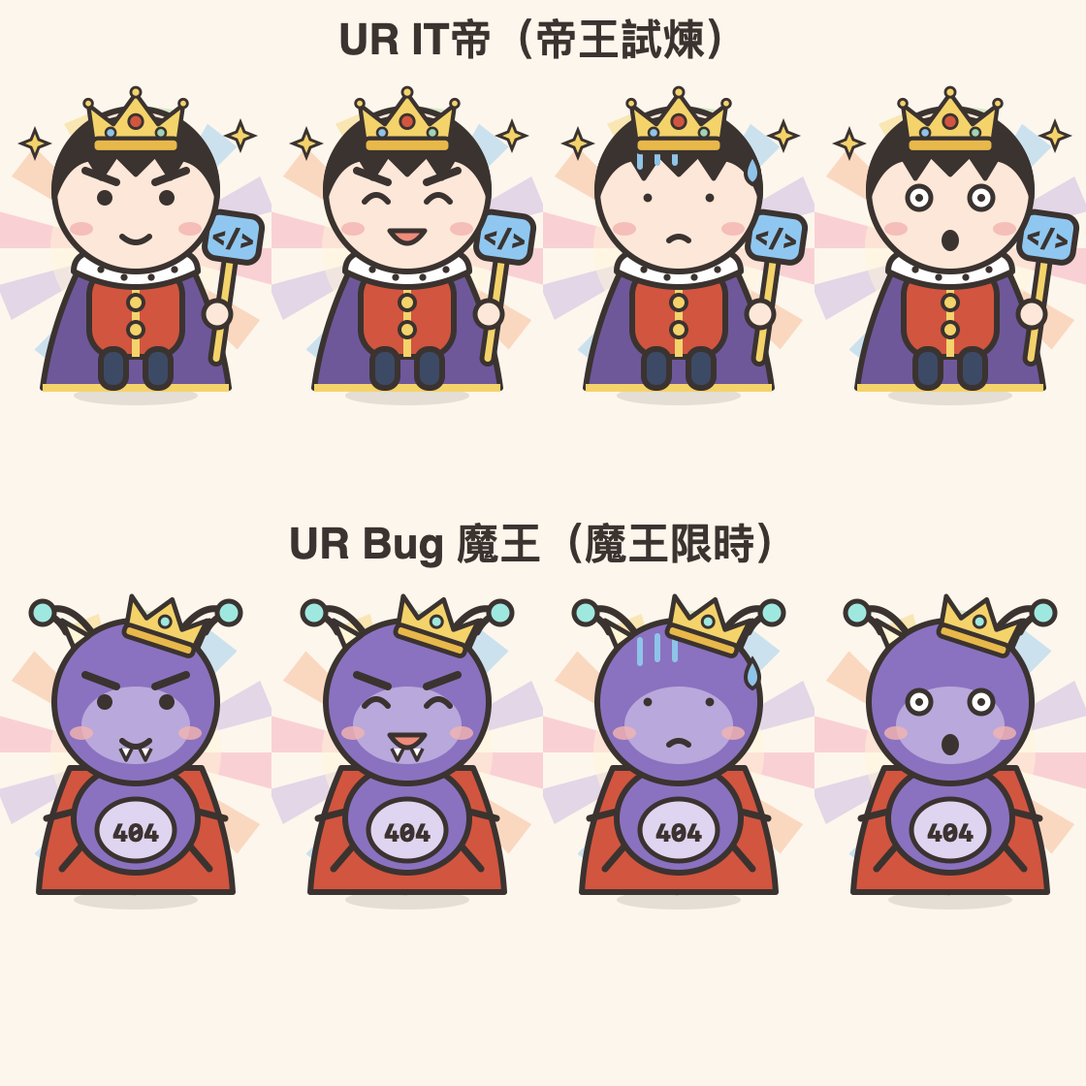
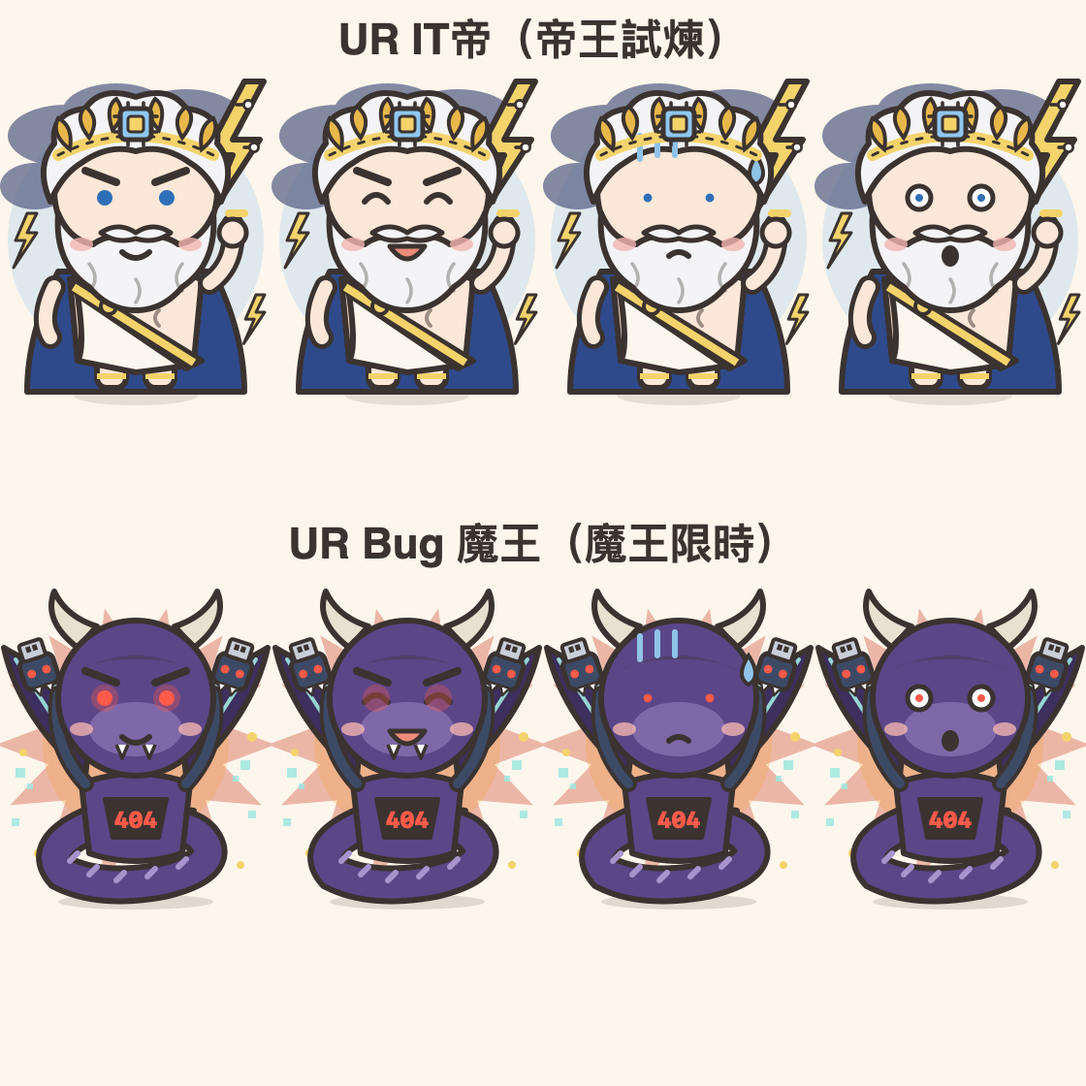
Zeus-style IT帝 and Typhon-style Bug 魔王, team tab with sub-tabs and a filtered character grid

diff --git a/src/ui/characters.js b/src/ui/characters.js
@@ -245,59 +245,83 @@
       </g>`;
     },
 
-    // IT帝 (UR, 帝王試煉 2026-11-01): a young emperor of IT — big jewelled crown,
-    // royal robe with an ermine collar, and a sceptre topped by a glowing </> key.
+    // IT帝 (UR, 帝王試煉; redesigned 2026-11-01 after "不夠威猛"): a Zeus-like
+    // storm king of IT — wavy white hair and beard, a laurel crown of circuit
+    // traces with a CPU-chip gem, a toga with a gold sash, and a raised
+    // lightning bolt carrying circuit nodes.
     emperor: (expr, v) => `
       ${shadow(70)}
-      <path d="M40 100 Q26 130 22 160 L118 160 Q114 130 100 100Z" fill="${v.cape}" stroke="${INK}" stroke-width="3" stroke-linejoin="round"/>
-      <path d="M22 160 L118 160" stroke="${GOLD}" stroke-width="4"/>
-      <rect x="46" y="98" width="48" height="46" rx="14" fill="${v.robe}" stroke="${INK}" stroke-width="3"/>
-      <path d="M70 100 L70 144" stroke="${GOLD}" stroke-width="4"/>
-      <circle cx="70" cy="116" r="4" fill="${GOLD}" stroke="${INK}" stroke-width="2"/><circle cx="70" cy="130" r="4" fill="${GOLD}" stroke="${INK}" stroke-width="2"/>
-      ${legs(NAVY)}
-      <path d="M38 100 Q70 116 102 100 Q102 92 94 90 Q70 102 46 90 Q38 92 38 100Z" fill="#ffffff" stroke="${INK}" stroke-width="3" stroke-linejoin="round"/>
-      <g fill="${INK}"><circle cx="52" cy="99" r="1.8"/><circle cx="64" cy="103" r="1.8"/><circle cx="78" cy="103" r="1.8"/><circle cx="90" cy="99" r="1.8"/></g>
-      <g transform="translate(-5 0) rotate(8 120 120)">
-        <rect x="117" y="92" width="6" height="56" rx="3" fill="${GOLD}" stroke="${INK}" stroke-width="2.5"/>
-        <rect x="106" y="70" width="28" height="24" rx="6" fill="${v.key}" stroke="${INK}" stroke-width="3"/>
-        <text x="120" y="87" text-anchor="middle" font-family="ui-monospace, Menlo, monospace" font-size="12" font-weight="900" fill="${INK}">&lt;/&gt;</text>
+      <path d="M30 100 Q14 132 14 162 L126 162 Q126 132 110 100Z" fill="${v.cape}" stroke="${INK}" stroke-width="3" stroke-linejoin="round"/>
+      <rect x="50" y="140" width="15" height="20" rx="5" fill="${SKIN}" stroke="${INK}" stroke-width="3"/><rect x="75" y="140" width="15" height="20" rx="5" fill="${SKIN}" stroke="${INK}" stroke-width="3"/>
+      <path d="M50 154 h15 M75 154 h15" stroke="${GOLD}" stroke-width="3"/>
+      <path d="M36 104 Q70 92 104 104 L100 146 Q70 152 40 146Z" fill="${SKIN}" stroke="${INK}" stroke-width="3" stroke-linejoin="round"/>
+      <path d="M58 120 q4 4 0 8 M82 120 q-4 4 0 8" fill="none" stroke="${INK}" stroke-width="2" stroke-linecap="round" opacity="0.5"/>
+      <path d="M36 104 L104 146 L96 150 L40 112Z M40 112 Q44 140 40 146 L70 152 Q88 150 98 148Z" fill="${v.toga}" stroke="${INK}" stroke-width="3" stroke-linejoin="round"/>
+      <path d="M38 108 L100 147" stroke="${GOLD}" stroke-width="4"/>
+      <circle cx="56" cy="118" r="4" fill="${GOLD}" stroke="${INK}" stroke-width="2"/>
+      <path d="M28 108 Q20 124 26 134" fill="none" stroke="${INK}" stroke-width="12" stroke-linecap="round"/><path d="M28 108 Q20 124 26 134" fill="none" stroke="${SKIN}" stroke-width="7" stroke-linecap="round"/>
+      <path d="M108 106 Q122 96 120 76" fill="none" stroke="${INK}" stroke-width="12" stroke-linecap="round"/><path d="M108 106 Q122 96 120 76" fill="none" stroke="${SKIN}" stroke-width="7" stroke-linecap="round"/>
+      <path d="M118 70 h8" stroke="${GOLD}" stroke-width="4" stroke-linecap="round"/>
+      <g class="ur-bolt">
+        <path d="M126 2 L106 40 L120 40 L104 78 L134 32 L120 32 L136 2Z" fill="${v.bolt}" stroke="${INK}" stroke-width="3" stroke-linejoin="round"/>
+        <path d="M122 14 h6 M114 36 h-6 M126 36 h5" stroke="${INK}" stroke-width="1.8" stroke-linecap="round"/>
+        <circle cx="128" cy="14" r="2.3" fill="#fff" stroke="${INK}" stroke-width="1.4"/><circle cx="108" cy="36" r="2.3" fill="#fff" stroke="${INK}" stroke-width="1.4"/><circle cx="131" cy="36" r="2.3" fill="#fff" stroke="${INK}" stroke-width="1.4"/>
       </g>
-      <circle cx="112" cy="122" r="7" fill="${SKIN}" stroke="${INK}" stroke-width="2.5"/>
+      <circle cx="120" cy="80" r="7" fill="${SKIN}" stroke="${INK}" stroke-width="2.5"/>
       ${humanHead(58)}
-      <path d="M28 62 Q26 24 70 20 Q114 24 112 62 Q106 44 94 42 L88 52 L80 40 L70 50 L60 40 L52 52 L46 42 Q34 44 28 62Z" fill="${v.hair}" stroke="${INK}" stroke-width="2.5" stroke-linejoin="round"/>
-      ${face(expr, { ...std, sx: 108, sy: 40, gy: 34 })}
-      <g transform="translate(70 27) scale(0.72)">
-        <path d="M-30 10 L-34 -18 L-16 -4 L0 -26 L16 -4 L34 -18 L30 10Z" fill="${GOLD}" stroke="${INK}" stroke-width="3" stroke-linejoin="round"/>
-        <rect x="-31" y="6" width="62" height="10" rx="4" fill="#e8b84a" stroke="${INK}" stroke-width="3"/>
-        <circle cx="0" cy="-6" r="5" fill="#d2553f" stroke="${INK}" stroke-width="2"/>
-        <circle cx="-18" cy="2" r="3.5" fill="#8fc3e8" stroke="${INK}" stroke-width="1.8"/><circle cx="18" cy="2" r="3.5" fill="#9fd4b4" stroke="${INK}" stroke-width="1.8"/>
-        <circle cx="0" cy="-27" r="3.5" fill="${GOLD}" stroke="${INK}" stroke-width="2"/><circle cx="-34" cy="-19" r="3" fill="${GOLD}" stroke="${INK}" stroke-width="2"/><circle cx="34" cy="-19" r="3" fill="${GOLD}" stroke="${INK}" stroke-width="2"/>
-      </g>
-      ${sparkle(18, 34)}${sparkle(124, 30)}`,
-
-    // Bug 魔王 (UR, 魔王限時 2026-11-01): the bug king, now on your side — a round
-    // bug with curly glowing antennae, little horns, tilted crown, cape and a
-    // 404 emblem.
-    demon: (expr, v) => `
-      ${shadow(70)}
-      <path d="M36 96 Q22 128 20 160 L120 160 Q118 128 104 96Z" fill="${v.cape}" stroke="${INK}" stroke-width="3" stroke-linejoin="round"/>
-      <g stroke="${INK}" stroke-width="3.5" stroke-linecap="round"><path d="M44 134 l-12 14"/><path d="M96 134 l12 14"/><path d="M40 118 l-16 4"/><path d="M100 118 l16 4"/></g>
-      <ellipse cx="70" cy="122" rx="32" ry="28" fill="${v.body}" stroke="${INK}" stroke-width="3"/>
-      <ellipse cx="70" cy="128" rx="20" ry="16" fill="${v.belly}" stroke="${INK}" stroke-width="2.5"/>
-      <text x="70" y="134" text-anchor="middle" font-family="ui-monospace, Menlo, monospace" font-size="13" font-weight="900" fill="${INK}">404</text>
-      <path d="M50 30 Q36 8 22 16 Q30 18 34 26" fill="none" stroke="${INK}" stroke-width="3.5" stroke-linecap="round"/>
-      <path d="M90 30 Q104 8 118 16 Q110 18 106 26" fill="none" stroke="${INK}" stroke-width="3.5" stroke-linecap="round"/>
-      <circle cx="22" cy="16" r="6" fill="${v.glow}" stroke="${INK}" stroke-width="2.5"/><circle cx="118" cy="16" r="6" fill="${v.glow}" stroke="${INK}" stroke-width="2.5"/>
-      <circle cx="70" cy="62" r="42" fill="${v.body}" stroke="${INK}" stroke-width="3"/>
-      <path d="M38 34 L32 20 L46 28Z M102 34 L108 20 L94 28Z" fill="#fff6d8" stroke="${INK}" stroke-width="2.5" stroke-linejoin="round"/>
-      <ellipse cx="70" cy="74" rx="28" ry="20" fill="${v.belly}" opacity="0.55"/>
-      ${face(expr, { lx: 54, rx: 86, ey: 62, mx: 70, my: 82, sx: 108, sy: 40, gx: 50, gy: 30, eye: v.eye })}
-      ${expr === "idle" || expr === "happy" ? `<path d="M62 86 l3 6 l3 -6 M72 86 l3 6 l3 -6" fill="#fff" stroke="${INK}" stroke-width="1.8" stroke-linejoin="round"/>` : ""}
-      <g transform="translate(84 24) rotate(18) scale(0.6)">
-        <path d="M-30 10 L-34 -18 L-16 -4 L0 -26 L16 -4 L34 -18 L30 10Z" fill="${GOLD}" stroke="${INK}" stroke-width="4" stroke-linejoin="round"/>
-        <rect x="-31" y="6" width="62" height="10" rx="4" fill="#e8b84a" stroke="${INK}" stroke-width="4"/>
-        <circle cx="0" cy="-6" r="5" fill="${v.glow}" stroke="${INK}" stroke-width="2.5"/>
+      <path d="M26 64 Q18 46 28 34 Q26 18 44 16 Q52 4 70 10 Q88 4 96 16 Q114 18 112 34 Q122 46 114 64 Q108 50 98 44 Q84 34 70 38 Q56 34 42 44 Q32 50 26 64Z" fill="${v.hair}" stroke="${INK}" stroke-width="3" stroke-linejoin="round"/>
+      <path d="M30 70 Q28 96 46 108 Q56 120 70 120 Q84 120 94 108 Q112 96 110 70 Q104 84 92 86 Q84 80 70 82 Q56 80 48 86 Q36 84 30 70Z" fill="${v.hair}" stroke="${INK}" stroke-width="3" stroke-linejoin="round"/>
+      <path d="M46 96 q6 8 0 14 M70 104 q4 6 0 12 M94 96 q-6 8 0 14" fill="none" stroke="${INK}" stroke-width="1.8" stroke-linecap="round" opacity="0.35"/>
+      <path d="M52 80 Q61 74 70 80 Q79 74 88 80 Q80 86 70 83 Q60 86 52 80Z" fill="${v.hair}" stroke="${INK}" stroke-width="2.5" stroke-linejoin="round"/>
+      ${face(expr, { lx: 54, rx: 86, ey: 62, mx: 70, my: 90, sx: 110, sy: 40, gx: 50, gy: 30, eye: v.eye })}
+      <g>
+        <path d="M30 40 Q70 20 110 40" fill="none" stroke="${GOLD}" stroke-width="6" stroke-linecap="round"/>
+        <path d="M30 40 Q70 20 110 40" fill="none" stroke="${INK}" stroke-width="1.5" stroke-dasharray="3 5" stroke-linecap="round"/>
+        <g fill="${v.laurel}" stroke="${INK}" stroke-width="2">
+          <path d="M36 37 q-10 -8 -6 -16 q8 4 6 16Z"/><path d="M46 31 q-8 -10 -2 -16 q8 6 2 16Z"/><path d="M58 27 q-4 -12 2 -16 q6 8 -2 16Z"/>
+          <path d="M104 37 q10 -8 6 -16 q-8 4 -6 16Z"/><path d="M94 31 q8 -10 2 -16 q-8 6 -2 16Z"/><path d="M82 27 q4 -12 -2 -16 q-6 8 2 16Z"/>
+        </g>
+        <rect x="62" y="16" width="16" height="16" rx="3" fill="#8fc7f0" stroke="${INK}" stroke-width="2.5"/>
+        <rect x="66" y="20" width="8" height="8" rx="1.5" fill="${GOLD}" stroke="${INK}" stroke-width="1.5"/>
+        <path d="M66 16 v-3 M74 16 v-3 M66 32 v3 M74 32 v3 M62 20 h-3 M62 28 h-3 M78 20 h3 M78 28 h3" stroke="${INK}" stroke-width="1.8" stroke-linecap="round"/>
       </g>`,
+
+    // Bug 魔王 (UR, 魔王限時; redesigned 2026-11-01 after "不夠震懾"): a Typhon-
+    // like monster of bugs — horned head with glowing red eyes, bat wings veined
+    // with circuits, a serpent coil instead of legs, two cable serpents with
+    // USB-plug heads rising from the shoulders, and a glowing 404 chest plate.
+    demon: (expr, v) => `
+      <g fill="${v.wing}" stroke="${INK}" stroke-width="3" stroke-linejoin="round">
+        <path d="M44 100 Q10 70 2 34 Q18 44 24 40 Q22 56 34 58 Q30 72 46 82Z"/>
+        <path d="M96 100 Q130 70 138 34 Q122 44 116 40 Q118 56 106 58 Q110 72 94 82Z"/>
+      </g>
+      <path d="M8 40 L30 74 M22 46 L36 64 M132 40 L110 74 M118 46 L104 64" stroke="${v.glow}" stroke-width="2" stroke-linecap="round" opacity="0.9"/>
+      <circle cx="30" cy="74" r="2.5" fill="${v.glow}"/><circle cx="110" cy="74" r="2.5" fill="${v.glow}"/>
+      <ellipse cx="70" cy="165" rx="40" ry="4" fill="${INK}" opacity="0.15"/>
+      <path d="M50 124 Q20 136 32 150 Q52 160 84 154 Q116 146 104 132 Q96 124 84 128" fill="none" stroke="${INK}" stroke-width="20" stroke-linecap="round"/>
+      <path d="M50 124 Q20 136 32 150 Q52 160 84 154 Q116 146 104 132 Q96 124 84 128" fill="none" stroke="${v.body}" stroke-width="14" stroke-linecap="round"/>
+      <path d="M36 144 l4 -4 M46 151 l4 -4 M60 154 l4 -4 M76 152 l4 -4 M92 147 l4 -4" stroke="${v.belly}" stroke-width="3" stroke-linecap="round"/>
+      <path d="M84 128 Q90 116 100 118" fill="none" stroke="${INK}" stroke-width="3" stroke-linecap="round"/>
+      <path d="M42 104 Q70 94 98 104 L94 140 Q70 148 46 140Z" fill="${v.body}" stroke="${INK}" stroke-width="3" stroke-linejoin="round"/>
+      <path d="M54 112 h32 l-4 20 h-24Z" fill="${INK}" stroke="${INK}" stroke-width="2" stroke-linejoin="round"/>
+      <text x="70" y="127" text-anchor="middle" font-family="ui-monospace, Menlo, monospace" font-size="12" font-weight="900" fill="${v.eyeGlow}">404</text>
+      ${[["M44 104 Q26 84 30 58", 22, 52, -1], ["M96 104 Q114 84 110 58", 118, 52, 1]].map(([d, hx, hy, dir]) => `
+        <path d="${d}" fill="none" stroke="${INK}" stroke-width="9" stroke-linecap="round"/><path d="${d}" fill="none" stroke="${v.cable}" stroke-width="5" stroke-linecap="round"/>
+        <g transform="translate(${hx} ${hy}) rotate(${dir * 18})">
+          <rect x="-9" y="-14" width="18" height="16" rx="4" fill="${v.cable}" stroke="${INK}" stroke-width="2.5"/>
+          <rect x="-6" y="-22" width="12" height="9" rx="1.5" fill="#c9ced8" stroke="${INK}" stroke-width="2"/>
+          <rect x="-3" y="-20" width="2.5" height="3" fill="${INK}"/><rect x="0.5" y="-20" width="2.5" height="3" fill="${INK}"/>
+          <circle cx="-4" cy="-6" r="2.2" fill="${v.eyeGlow}"/><circle cx="4" cy="-6" r="2.2" fill="${v.eyeGlow}"/>
+          <path d="M-5 2 l2 4 l2 -4 M1 2 l2 4 l2 -4" fill="#fff" stroke="${INK}" stroke-width="1.2" stroke-linejoin="round"/>
+        </g>`).join("")}
+      <path d="M40 34 Q22 20 28 5 Q34 18 50 23Z" fill="${v.horn}" stroke="${INK}" stroke-width="3" stroke-linejoin="round"/>
+      <path d="M100 34 Q118 20 112 5 Q106 18 90 23Z" fill="${v.horn}" stroke="${INK}" stroke-width="3" stroke-linejoin="round"/>
+      <circle cx="70" cy="60" r="40" fill="${v.body}" stroke="${INK}" stroke-width="3"/>
+      <path d="M40 46 Q70 30 100 46 Q92 40 70 40 Q48 40 40 46Z" fill="${INK}" opacity="0.35"/>
+      <ellipse cx="70" cy="76" rx="24" ry="14" fill="${v.belly}" opacity="0.45"/>
+      ${face(expr, { lx: 54, rx: 86, ey: 60, mx: 70, my: 80, sx: 106, sy: 38, gx: 50, gy: 28, eye: v.eyeGlow })}
+      ${expr === "idle" || expr === "happy" ? `<circle cx="54" cy="60" r="7" fill="${v.eyeGlow}" opacity="0.3"/><circle cx="86" cy="60" r="7" fill="${v.eyeGlow}" opacity="0.3"/><path d="M60 84 l3 7 l3 -7 M74 84 l3 7 l3 -7" fill="#fff" stroke="${INK}" stroke-width="1.8" stroke-linejoin="round"/>` : ""}
+      <g fill="${v.glow}" opacity="0.85"><rect x="8" y="96" width="5" height="5"/><rect x="14" y="104" width="3" height="3"/><rect x="124" y="92" width="5" height="5"/><rect x="120" y="100" width="3" height="3"/><rect x="6" y="122" width="4" height="4"/><rect x="128" y="118" width="4" height="4"/></g>`,
 
     // 人工智能機械人: body/head colours, eye colour, extras.
     robot: (expr, v) => {
@@ -333,7 +357,7 @@
   // ---------- SSR look (user request 2026-10-31: SSR 要有威猛的形象) ----------
   // An energy burst behind, an optional cape, and determined eyebrows.
   // Brow positions per family: [left eye x, right eye x, brow y].
-  const BROWS = { dog: [50, 82, 47], db: [54, 86, 50], suit: [54, 86, 50], office: [54, 86, 50], net: [54, 86, 54], hacker: [53, 87, 50], robot: [56, 84, 40], emperor: [54, 86, 52], demon: [54, 86, 52] };
+  const BROWS = { dog: [50, 82, 47], db: [54, 86, 50], suit: [54, 86, 50], office: [54, 86, 50], net: [54, 86, 54], hacker: [53, 87, 50], robot: [56, 84, 40], emperor: [54, 86, 52], demon: [54, 86, 50] };
 
   function burst(color) {
     const pts = [];
@@ -358,6 +382,29 @@
     return `<g class="ssr-aura ur-aura">${rays}<circle cx="70" cy="88" r="44" fill="#fff6d8" opacity="0.5"/></g>`;
   }
 
+  // UR auras (2026-11-01): a storm (dark clouds, lightning, binary digits)
+  // behind IT帝 and an inferno (red-orange spikes, embers) behind Bug 魔王.
+  function stormAura() {
+    const bolt = (x, y, s) => `<path d="M${x} ${y} l${-6 * s} ${14 * s} h${5 * s} l${-6 * s} ${14 * s} l${12 * s} ${-18 * s} h${-5 * s} l${5 * s} ${-10 * s}Z" fill="#f4d36b" stroke="${INK}" stroke-width="1.5" stroke-linejoin="round"/>`;
+    return `<g class="ssr-aura ur-aura">
+      <circle cx="70" cy="84" r="66" fill="#8fc7f0" opacity="0.28"/>
+      <g fill="#5b6488" opacity="0.75"><ellipse cx="34" cy="30" rx="30" ry="16"/><ellipse cx="60" cy="18" rx="28" ry="15"/><ellipse cx="96" cy="22" rx="30" ry="16"/><ellipse cx="18" cy="56" rx="18" ry="12"/></g>
+      ${bolt(14, 70, 1)}${bolt(28, 120, 0.8)}${bolt(132, 112, 0.9)}
+      <g font-family="ui-monospace, Menlo, monospace" font-size="8" font-weight="900" fill="#c9e2f4"><text x="30" y="34">1010</text><text x="78" y="26">0110</text></g>
+    </g>`;
+  }
+
+  function infernoAura() {
+    const pts = [];
+    for (let i = 0; i < 28; i++) {
+      const a = (Math.PI * 2 * i) / 28;
+      const r = i % 2 ? 46 : 72;
+      pts.push(`${(70 + r * Math.cos(a)).toFixed(1)},${(84 + r * Math.sin(a)).toFixed(1)}`);
+    }
+    return `<g class="ssr-aura ur-aura"><polygon points="${pts.join(" ")}" fill="#d2553f" opacity="0.4"/><circle cx="70" cy="84" r="48" fill="#f2a541" opacity="0.3"/>
+      <g fill="#f4d36b"><circle cx="20" cy="140" r="2.5"/><circle cx="124" cy="146" r="2"/><circle cx="12" cy="88" r="2"/><circle cx="130" cy="80" r="2.5"/></g></g>`;
+  }
+
   function heroic(family, expr, v) {
     if (!v.heroic) return { back: "", front: "" };
     const h = v.heroic;
@@ -369,7 +416,7 @@
     const brows = expr === "idle" || expr === "happy"
       ? `<g stroke="${browColor}" stroke-width="4" stroke-linecap="round"><line x1="${lx - 10}" y1="${y - 4}" x2="${lx + 6}" y2="${y + 2}"/><line x1="${rx + 10}" y1="${y - 4}" x2="${rx - 6}" y2="${y + 2}"/></g>`
       : "";
-    const aura = h.aura === "rainbow" ? rainbowBurst() : burst(h.aura);
+    const aura = h.aura === "rainbow" ? rainbowBurst() : h.aura === "storm" ? stormAura() : h.aura === "inferno" ? infernoAura() : burst(h.aura);
     return { back: aura + cape, front: brows };
   }
 
@@ -411,9 +458,9 @@
     "CH-BROADBAND-5G": ["net", { helmet: "#c4b0e0", vest: "#f2b4b0", shirt: "#e6eff8", cable: "#c4b0e0", badge: "fiveG" }],
     "CH-BROADBAND-CHIEF": ["net", { helmet: GOLD, vest: "#ee8b7a", shirt: NAVY, cable: GOLD, badge: "mic", heroic: { aura: "#f4d36b", cape: NAVY } }],
     // 帝王系列 (UR, only from 帝王試煉 shards)
-    "CH-ITEMPEROR": ["emperor", { robe: "#d2553f", cape: "#6e589a", hair: "#3b3330", key: "#8fc7f0", heroic: { aura: "rainbow" } }],
+    "CH-ITEMPEROR": ["emperor", { toga: "#fbf7ee", cape: "#2f4a8a", hair: "#f4f4f6", laurel: "#e8b84a", bolt: "#f4d36b", eye: "#2f6fb8", heroic: { aura: "storm" } }],
     // 魔王系列 (UR, only from 魔王限時 shards)
-    "CH-BUGLORD": ["demon", { body: "#8a72c0", belly: "#e0d5f0", cape: "#d2553f", glow: "#9fe8e0", eye: "#3b3330", heroic: { aura: "rainbow" } }],
+    "CH-BUGLORD": ["demon", { body: "#5b4688", belly: "#a993cf", wing: "#3d2f5e", horn: "#e8e0d0", cable: "#3d4a66", glow: "#9fe8e0", eyeGlow: "#ff5a4a", heroic: { aura: "inferno" } }],
     // 人工智能機械人
     "CH-AIBOT-STUDY": ["robot", { head: "#ffffff", body: "#9fd4b4", screen: NAVY, eye: "#9fd4b4", antenna: GOLD }],
     "CH-AIBOT-CHAT": ["robot", { head: "#e6eff8", body: "#8fc3e8", screen: NAVY, eye: "#8fc3e8", antenna: "#ee8b7a", extra: "bubble" }],

diff --git a/src/ui/team.js b/src/ui/team.js
@@ -1,4 +1,4 @@
-// 角色隊伍 screen: team slots (opened by player level) and the character list.
+// 角色隊伍 screen: team slots (opened by player level), then 角色 / 裝備 sub-tabs.
 // Tap a character to add or remove it. Team effects apply to the DSE 題庫挑戰
 // only (see src/core/profile.js). Ownership rules wait for the gacha feature,
 // so every character is available for now (PROTOTYPE).
@@ -19,6 +19,10 @@
   function topicName(id) {
     return id === "ALL" ? "全部課題" : Q.TOPICS[id] || id;
   }
+
+  // Sub-tab ("chars" | "gear") and character filter, kept while on this screen.
+  let view = "chars";
+  let filter = "owned";
 
   function show(message) {
     const save = app.getSave();
@@ -56,10 +60,12 @@
           h("h1", {}, "角色隊伍")
         ),
         app.profileBar(),
+        // Compact team strip; below it 角色 / 裝備 sub-tabs, so the page no
+        // longer scrolls through every section (user 2026-11-01).
         h(
           "section",
-          { class: "panel" },
-          h("h2", {}, `我的隊伍（${team.length} / ${slots}）`),
+          { class: "panel team-strip" },
+          h("h2", {}, `我的隊伍 ${team.length} / ${slots}`, h("span", { class: "team-stats" }, `攻擊 ${stats.attack}｜HP ${stats.hp}`)),
           h(
             "div",
             { class: "team-slots" },
@@ -82,68 +88,66 @@
               );
             })
           ),
-          h("p", { class: "hint" }, `隊伍攻擊 ${stats.attack}｜HP ${stats.hp}（成員平均）`),
-          h("p", { class: "hint" }, "答對隊員專長課題的題目可加傷害。隊伍課題越多元，越多題目有加成。"),
-          h("p", { class: "hint" }, "隊伍只用於「DSE 題庫挑戰」；故事模式及校際公會不受影響。")
+          h("p", { class: "hint" }, "按角色加入或移出。答對隊員專長課題可加傷害；只用於「DSE 題庫挑戰」。")
         ),
         message ? h("p", { class: "form-error", role: "alert" }, message) : null,
-        equipmentPanel(profile, team, equip),
         h(
-          "section",
-          { class: "panel" },
-          h("h2", {}, "角色"),
-          P.familyGroups(data.characters).map((g) => [
-            g.characters.length > 1 || g.characters[0].family
-              ? h("h3", { class: "family-title" }, g.name, h("span", { class: "family-count" }, `${g.characters.filter((c) => P.owns(profile, c.id)).length} / ${g.characters.length}`))
-              : null,
-            h(
+          "div",
+          { class: "seg team-tabs", role: "tablist" },
+          [["chars", `角色 ${profile.owned.characters.length}/${data.characters.length}`], ["gear", "裝備"]].map(([key, label]) =>
+            h("button", { class: view === key ? "seg-btn active" : "seg-btn", role: "tab", "aria-selected": view === key ? "true" : "false", onclick: () => ((view = key), app.sfx("tap"), show()) }, label)
+          )
+        ),
+        view === "gear" ? equipmentPanel(profile, team, equip) : charactersPanel(profile, toggle, slots, covered)
+      )
+    );
+  }
+
+  // 角色 grid: filter chips (已擁有 / 全部 / each family), three cards per row.
+  function charactersPanel(profile, toggle, slots, covered) {
+    const groups = P.familyGroups(data.characters);
+    const filters = [["owned", "已擁有"], ["all", "全部"]].concat(groups.map((g) => [g.id, g.name]));
+    const list = data.characters.filter((c) =>
+      filter === "owned" ? P.owns(profile, c.id) : filter === "all" ? true : (groups.find((g) => g.id === filter) || { characters: [] }).characters.includes(c)
+    );
+    const rank = { UR: 0, SSR: 1, SR: 2, R: 3 };
+    list.sort((a, b) => (profile.team.includes(b.id) - profile.team.includes(a.id)) || (P.owns(profile, b.id) - P.owns(profile, a.id)) || (rank[a.rarity] - rank[b.rarity]));
+    return h(
+      "section",
+      { class: "panel" },
+      h(
+        "div",
+        { class: "filter-chips", role: "tablist", "aria-label": "篩選角色" },
+        filters.map(([key, label]) => h("button", { class: filter === key ? "chip-btn active" : "chip-btn", role: "tab", "aria-selected": filter === key ? "true" : "false", onclick: () => ((filter = key), show()) }, label))
+      ),
+      list.length
+        ? h(
             "div",
-            { class: "char-list" },
-            g.characters.map((c) => {
+            { class: "char-grid" },
+            list.map((c) => {
+              const owned = P.owns(profile, c.id);
               const inTeam = profile.team.includes(c.id);
-              if (!P.owns(profile, c.id)) {
-                return h(
-                  "button",
-                  { class: "char-card not-owned", onclick: () => show(ERRORS.not_owned), "aria-label": `${c.name}（未擁有）` },
-                  h("span", { class: "char-sprite", html: sprites.character(c.id, "idle") }),
-                  h(
-                    "span",
-                    { class: "char-info" },
-                    h("span", { class: "char-name" }, c.name, h("span", { class: `rarity rarity-${c.rarity}` }, c.rarity)),
-                    h("span", { class: "char-spec" }, `專長：${topicName(c.specialty)}`),
-                    h("span", { class: "char-action" }, "未擁有（抽蛋取得）")
-                  )
-                );
-              }
+              const g = root.ITE.growth.charGrowth(profile, c.id);
+              const label = !owned ? "未擁有" : inTeam ? (slots === 1 ? "出戰中" : "隊伍中") : covered.has(c.specialty) ? "專長重複" : `Lv ${g.level}${g.evo ? `・${root.ITE.growth.EVO_NAMES[g.evo]}` : ""}`;
               return h(
                 "button",
-                { class: inTeam ? "char-card in-team" : "char-card", onclick: () => toggle(c.id), "aria-pressed": inTeam ? "true" : "false" },
-                h("span", { class: "char-sprite", html: sprites.character(c.id, inTeam ? "happy" : "idle") }),
-                h(
-                  "span",
-                  { class: "char-info" },
-                  h("span", { class: "char-name" }, c.name, h("span", { class: `rarity rarity-${c.rarity}` }, c.rarity)),
-                  h("span", { class: "char-spec" }, `專長：${topicName(c.specialty)}　+${Math.round(c.bonus * 100)}%`),
-                  (() => {
-                    const g = root.ITE.growth.charGrowth(profile, c.id);
-                    const st = root.ITE.growth.stats(c, g);
-                    return h("span", { class: "char-stats" }, `Lv ${g.level}${g.evo ? `・${root.ITE.growth.EVO_NAMES[g.evo]}` : ""}｜攻擊 ${st.attack}｜HP ${st.hp}`);
-                  })(),
-                  h(
-                    "span",
-                    { class: "char-action" },
-                    inTeam
-                      ? slots === 1 ? "目前出戰" : "已在隊伍（按一下移出）"
-                      : slots === 1 ? "按一下換上" : covered.has(c.specialty) ? "加入隊伍（專長重複）" : "加入隊伍"
-                  )
-                )
+                {
+                  class: `char-tile${inTeam ? " in-team" : ""}${owned ? "" : " not-owned"}`,
+                  onclick: () => (owned ? toggle(c.id) : show(ERRORS.not_owned)),
+                  "aria-pressed": inTeam ? "true" : "false",
+                  "aria-label": `${c.name} ${c.rarity}，專長 ${topicName(c.specialty)}，${label}`,
+                },
+                inTeam ? h("span", { class: "tile-check", "aria-hidden": "true" }, "✓") : null,
+                h("span", { class: `rarity rarity-${c.rarity} tile-rarity` }, c.rarity),
+                h("span", { class: "tile-sprite", html: sprites.character(c.id, inTeam ? "happy" : "idle") }),
+                h("span", { class: "tile-name" }, c.name),
+                h("span", { class: "tile-spec" }, topicName(c.specialty)),
+                h("span", { class: "tile-state" }, label)
               );
             })
-          ),
-          ]).flat(),
-          h("p", { class: "hint" }, `已擁有 ${profile.owned.characters.length} / ${data.characters.length} 個角色。新角色只可在「抽蛋」取得。`)
-        )
-      )
+          )
+        : h("p", { class: "hint" }, "沒有角色。"),
+      h("p", { class: "hint" }, "新角色只可在「抽蛋」取得；UR 角色由帝王試煉／魔王限時的碎片合成。")
     );
   }
 
@@ -226,5 +230,5 @@
     );
   }
 
-  root.ITE.teamUi = { show: () => ((picking = null), show()) };
+  root.ITE.teamUi = { show: () => ((picking = null), (view = "chars"), show()) };
 })(globalThis);

diff --git a/src/ui/style.css b/src/ui/style.css
@@ -859,3 +859,27 @@ body[data-screen="guild"] { --page-bg: linear-gradient(180deg, #ebe2f8 0%, #fbf6
 .drain-info.grace { color: var(--ink); background: #c9e2f4; animation: none; }
 .demon-entry { background: linear-gradient(100deg, #f6c6c0, #e0d5f0); }
 @media (prefers-reduced-motion: reduce) { .drain-info { animation: none; } }
+/* 角色隊伍 sub-tabs and grid (2026-11-01) */
+.team-strip h2 { display: flex; justify-content: space-between; align-items: baseline; gap: 8px; margin-bottom: 6px; }
+.team-stats { font-size: 13px; font-weight: 800; color: var(--muted); }
+.team-tabs { margin: 10px 0; }
+.filter-chips { display: flex; gap: 6px; overflow-x: auto; padding: 2px 2px 8px; margin: -4px 0 6px; scrollbar-width: none; }
+.filter-chips::-webkit-scrollbar { display: none; }
+.chip-btn { flex: none; padding: 5px 12px; font: inherit; font-size: 13px; font-weight: 800; color: var(--ink); background: #fff; border: 2px solid var(--ink); border-radius: 999px; cursor: pointer; white-space: nowrap; }
+.chip-btn.active { background: var(--yellow); }
+.char-grid { display: grid; grid-template-columns: repeat(3, minmax(0, 1fr)); gap: 8px; }
+.char-tile {
+  position: relative; display: flex; flex-direction: column; align-items: center; gap: 1px; padding: 6px 4px 8px; min-width: 0;
+  font: inherit; color: var(--ink); background: var(--card); border: 2.5px solid var(--ink); border-radius: 16px; box-shadow: 0 3px 0 var(--ink); cursor: pointer;
+}
+.char-tile.in-team { background: #fff1c9; }
+.char-tile.not-owned { background: #f1ebe3; border-style: dashed; box-shadow: none; }
+.char-tile.not-owned .tile-sprite { filter: grayscale(1); opacity: 0.5; }
+.char-tile:focus-visible { outline: 3px solid #6aa0d8; outline-offset: 2px; }
+.tile-sprite { width: 70%; }
+.tile-sprite svg { width: 100%; height: auto; display: block; }
+.tile-name { max-width: 100%; font-size: 13px; font-weight: 900; overflow: hidden; text-overflow: ellipsis; white-space: nowrap; }
+.tile-spec { max-width: 100%; font-size: 10.5px; color: var(--muted); overflow: hidden; text-overflow: ellipsis; white-space: nowrap; }
+.tile-state { font-size: 11px; font-weight: 800; }
+.tile-rarity { position: absolute; top: 5px; left: 5px; font-size: 10px; }
+.tile-check { position: absolute; top: 4px; right: 6px; width: 20px; height: 20px; display: grid; place-items: center; font-size: 12px; font-weight: 900; background: #9fd4b4; border: 2px solid var(--ink); border-radius: 50%; }

diff --git a/docs/05_DECISIONS.md b/docs/05_DECISIONS.md
@@ -70,3 +70,5 @@
 | 裝備數值 | CONFIRMED 2026-11-01（1.0 範圍含 #12） | Excel `Equipment` 表：眼藥水 回復 20／28／36 HP（原 10／16／22），防毒軟件 受傷害 -15／-22／-30%（原 10／15／20）。Claude 直接改 Excel（只改 sheet23.xml，備份 `IT_Emperor_DseMcQs_舊(20261101_裝備前）.xlsx`）並重新匯入 |
 | 帝王試煉（UR 副本） | PROTOTYPE 2026-11-01（用戶規格） | UR「IT帝」（Excel Characters 新增 CH-ITEMPEROR：全部課題、攻擊／HP 120、加成 15%、帝王系列；匯入器接受 UR，抽蛋池不含 UR）。DSE 挑戰頁「👑 帝王試煉」：初級 5 題 1 碎片、中級 15 題 1–3、高級 30 題 2–4、最難 50 題 3–5；每難度每週（香港時間星期一 00:00）領一次，輸了不計可再挑戰，不扣體力；40 碎片合成，其餘留作進化。Boss 為「IT帝的影子」（UR 造型變暗）。造型：皇冠、紅袍紫披風、白毛領、</> 權杖、彩虹光芒——PROPOSAL 待用戶核准 |
 | 魔王限時（第二個 UR） | PROTOTYPE 2026-11-01（用戶規格） | DSE 挑戰頁「⏱ 魔王限時」：簡單 15／中等 20／困難 25／究極 30 題，答題時每秒扣隊伍最大 HP 的 0.7／0.8／0.9／1%，看解說時暫停（學習優先），App 在背景時不扣；HP 0 即失敗。眼鏡生效：每題開頭 3／5／7 秒不扣血（眼鏡加入裝備盲盒）。勝出每週每難度領一次「Bug 魔王碎片」1／1–3／2–4／3–5，40 個合成 UR「Bug 魔王」（Excel Characters 新增 CH-BUGLORD：攻擊 125、HP 115、加成 15%、魔王系列）。造型：紫色圓蟲、捲觸角、小角、斜皇冠、紅披風、404 胸章——PROPOSAL 待用戶核准 |
+| UR 造型第二版 | PROPOSAL 2026-11-01（用戶：不夠威猛和震懾；IT帝參照宙斯、魔王參照 Typhon，加少許電腦元素） | IT帝：白色捲髮及大鬍子、電路紋桂冠配 CPU 晶片寶石、白長袍金帶、深藍披風、高舉帶電路節點的閃電，背後雷雲、閃電及 1010 字樣。Bug 魔王：彎角惡魔頭、發光紅眼及獠牙、電路紋蝙蝠翼、蛇尾盤身代替雙腿、肩上兩條 USB 插頭蛇形電線、發光 404 胸甲、火焰光環及故障像素。原創設計，只取神話概念。待用戶核准 |
+| 角色隊伍排版 | PROTOTYPE 2026-11-01（用戶：不停向下滾不理想） | 頂部精簡隊伍列（5 格＋攻擊／HP），下面「角色／裝備」分頁；角色以三欄小卡顯示，篩選：已擁有（預設）／全部／各系列；隊伍中角色排前並有 ✓ |
